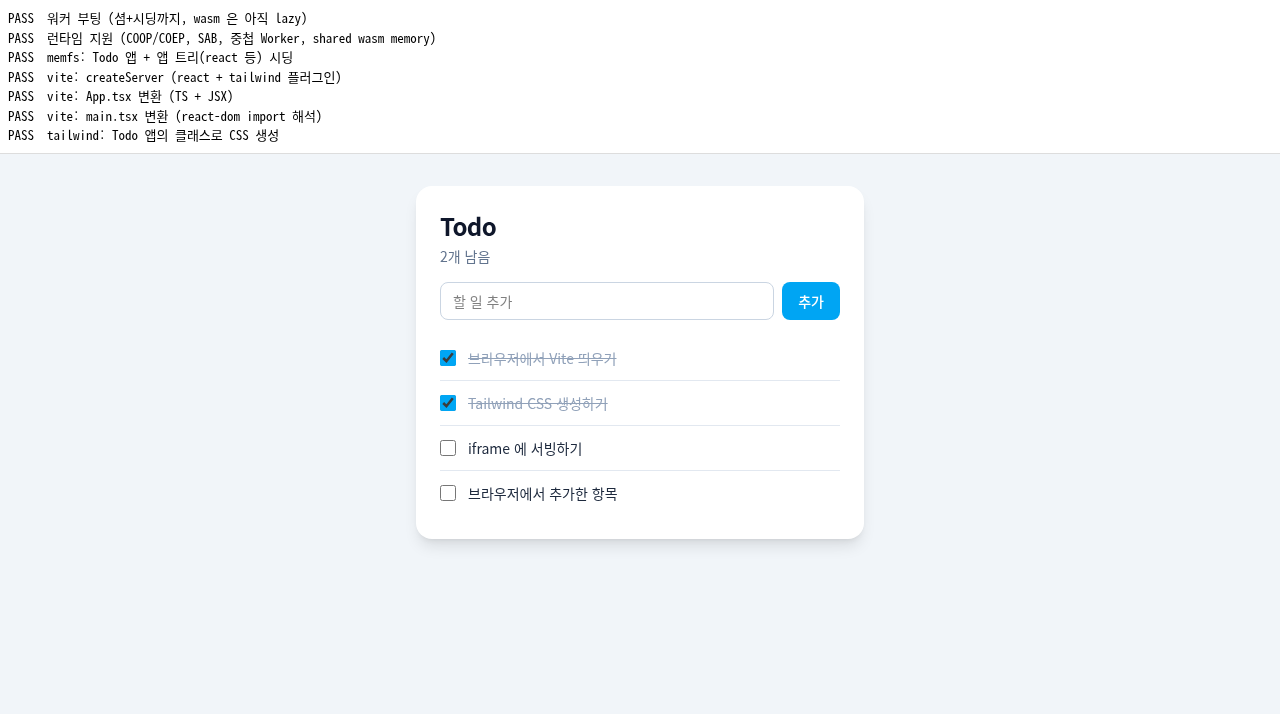
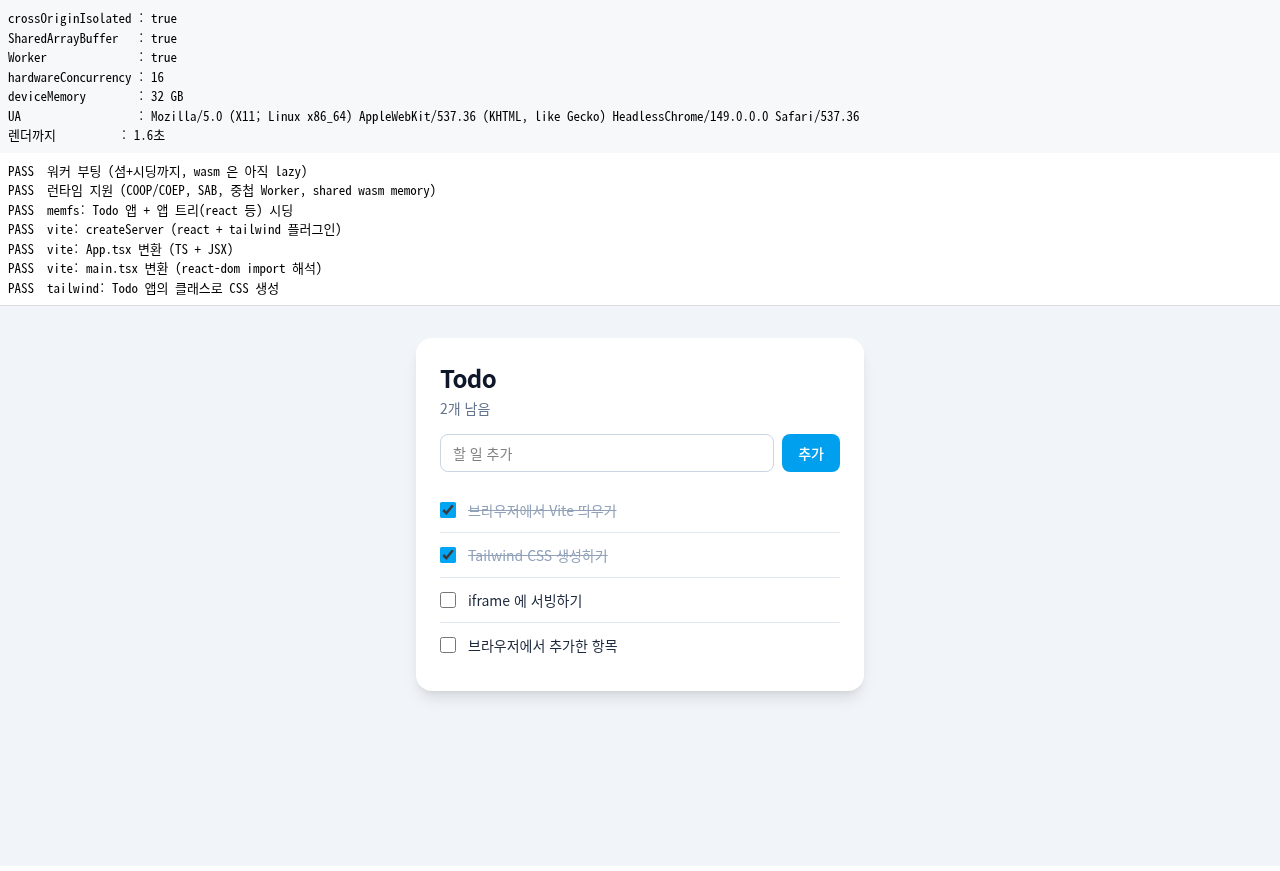
실기기 테스트 도구 + 안드로이드는 iOS 제약이 적용되지 않음을 정리
삼성 인터넷 / 안드로이드 Chrome 은 Chromium(Blink + V8) 이므로 앞서 정리한
wasm 메모리 문제는 iOS(WebKit/JavaScriptCore) 만의 것이다. 기능도 전부 있다:
  - SharedArrayBuffer: 삼성 인터넷 15.0+ (Chromium 96 추종), COOP/COEP 필수
  - WASM 스레드: 삼성 인터넷 11.1+
남는 변수는 기기 RAM 뿐 (우리는 PSS 약 425 MB).

추측을 더 쌓지 말고 직접 재게 한다:

  npm run serve:lan

자체 서명 인증서로 LAN 에 HTTPS 서버를 띄우고 접속 주소를 출력한다.
태블릿에서 열면 crossOriginIsolated / deviceMemory / 렌더 시간 / JS·wasm 힙이
화면에 뜬다.

⚠️ HTTPS 가 필수다 — COOP/COEP 로 crossOriginIsolated 를 켜려면 secure context 가
필요한데 http://192.168.x.x 는 secure context 가 아니다. SAB 가 없으면 rolldown 이
초기화 단계에서 죽는다. localhost 는 예외라 개발 중엔 이 함정이 안 보인다.

부수 수정: 화면 진단을 넣으면서 measureUserAgentSpecificMemory() 를 __done 앞에
뒀더니 렌더 시간이 1.6초 → 62.4초로 보였다. 그 API 는 다음 GC 까지 기다린다.
결과 확정 후로 옮겨서 1.7초로 복구.

diff --git a/test/browser/index.html b/test/browser/index.html
@@ -1,6 +1,7 @@
 <!doctype html>
 <html lang="ko">
   <body style="margin: 0; font: 13px/1.5 ui-monospace, monospace">
+    <pre id="env" style="padding: 8px; margin: 0; background: #f6f8fa"></pre>
     <pre id="o" style="padding: 8px; margin: 0">running…</pre>
     <!-- Vite dev server(워커)가 SW 를 통해 여기에 서빙한다 -->
     <iframe
@@ -10,6 +11,23 @@
 
     <script type="module">
       const out = document.getElementById('o')
+
+      // ── 실기기 진단 — 화면에 바로 띄운다 ───────────────────────────────
+      // crossOriginIsolated 가 false 면 SharedArrayBuffer 가 없고 rolldown 의 wasm 이
+      // 초기화 단계에서 죽는다. LAN 에서 http:// 로 열면 secure context 가 아니라서
+      // 여기가 false 가 된다 — HTTPS 로 열어야 한다 (test/browser/serve-lan.mjs).
+      const T_START = performance.now()
+      const env = document.getElementById('env')
+      const envLines = [
+        `crossOriginIsolated : ${globalThis.crossOriginIsolated}` +
+          (globalThis.crossOriginIsolated ? '' : '   ← false 면 여기서 끝. HTTPS 로 여세요'),
+        `SharedArrayBuffer   : ${typeof SharedArrayBuffer !== 'undefined'}`,
+        `Worker              : ${typeof Worker !== 'undefined'}`,
+        `hardwareConcurrency : ${navigator.hardwareConcurrency}`,
+        `deviceMemory        : ${navigator.deviceMemory ?? '(미지원)'} GB`,
+        `UA                  : ${navigator.userAgent}`,
+      ]
+      env.textContent = envLines.join('\n')
       const worker = new Worker(new URL('./worker.ts', import.meta.url), { type: 'module' })
 
       // 워커가 매 단계 중간 결과를 보낸다. 하드 블록이면 마지막 postMessage 이후로
@@ -68,7 +86,20 @@
       )
       await Promise.race([iframeLoaded, new Promise((r) => setTimeout(r, 60000))])
       console.log('[bridge] iframe load 이벤트 완료')
+      // ⚠️ __done 을 **먼저** 세운다. measureUserAgentSpecificMemory() 는 다음 GC 까지
+      // 기다리므로 수십 초가 걸릴 수 있고, 그 앞에 두면 테스트 러너가 그만큼 대기해서
+      // 렌더 시간이 62초로 보인다 (실제로 그렇게 잘못 쟀었다).
+      const elapsed = ((performance.now() - T_START) / 1000).toFixed(1)
+      env.textContent = envLines.join('\n') + `\n렌더까지          : ${elapsed}초`
       window.__done = window.__partial
+
+      // 힙 측정은 결과 확정 후에 느긋하게 — 화면 표시용
+      try {
+        if (performance.measureUserAgentSpecificMemory) {
+          const m = await performance.measureUserAgentSpecificMemory()
+          env.textContent += `\nJS/wasm 힙        : ${(m.bytes / 1048576).toFixed(0)} MB`
+        }
+      } catch {}
     </script>
   </body>
 </html>

diff --git a/README.md b/README.md
@@ -164,6 +164,32 @@ Safari 16.2 기준. 256 MB 로 낮추면 해결). rolldown 의 하한(2 GiB)과 
 모바일을 열어야 한다면 esbuild-wasm(Go, 스레드 없음) 기반 Vite 6 이 유일한
 대안으로 보인다 — SAB 요구도 같이 사라진다 (Tailwind 는 이미 순수 JS 다).
 
+#### 안드로이드는 다르다 — iOS 의 제약이 적용되지 않는다
+
+**삼성 인터넷 / 안드로이드 Chrome 은 Chromium(Blink + V8)** 이므로 위 wasm 메모리
+문제는 iOS(WebKit/JavaScriptCore) 만의 것이다. 기능도 전부 있다:
+
+- SharedArrayBuffer: **삼성 인터넷 15.0+** (Chromium 96 추종), COOP/COEP 필수
+  ([참고](https://www.testmuai.com/learning-hub/sharedarraybuffer-browser-support/))
+- WASM 스레드: 삼성 인터넷 11.1+
+
+남는 변수는 **기기 RAM** 뿐이다 (우리는 PSS 약 425 MB 를 쓴다).
+
+#### 실기기에서 직접 확인하기
+
+```bash
+npm run serve:lan
+```
+
+자체 서명 인증서로 LAN 에 HTTPS 서버를 띄우고 접속 주소를 출력한다.
+태블릿/폰에서 열면 화면 상단에 `crossOriginIsolated`, `deviceMemory`,
+렌더 시간, JS/wasm 힙이 뜬다.
+
+⚠️ **반드시 HTTPS 여야 한다.** COOP/COEP 로 crossOriginIsolated 를 켜려면
+secure context 가 필요한데 `http://192.168.x.x` 는 secure context 가 아니다.
+그러면 SharedArrayBuffer 가 없어서 rolldown 이 초기화 단계에서 죽는다.
+(localhost 는 예외라 개발 중엔 이 문제가 안 보인다.)
+
 ### (참고) Node/V8 에서의 메모리 거동
 
 `@rolldown/browser` 는 `new WebAssembly.Memory({ initial: 16384, maximum: 65536, shared: true })`